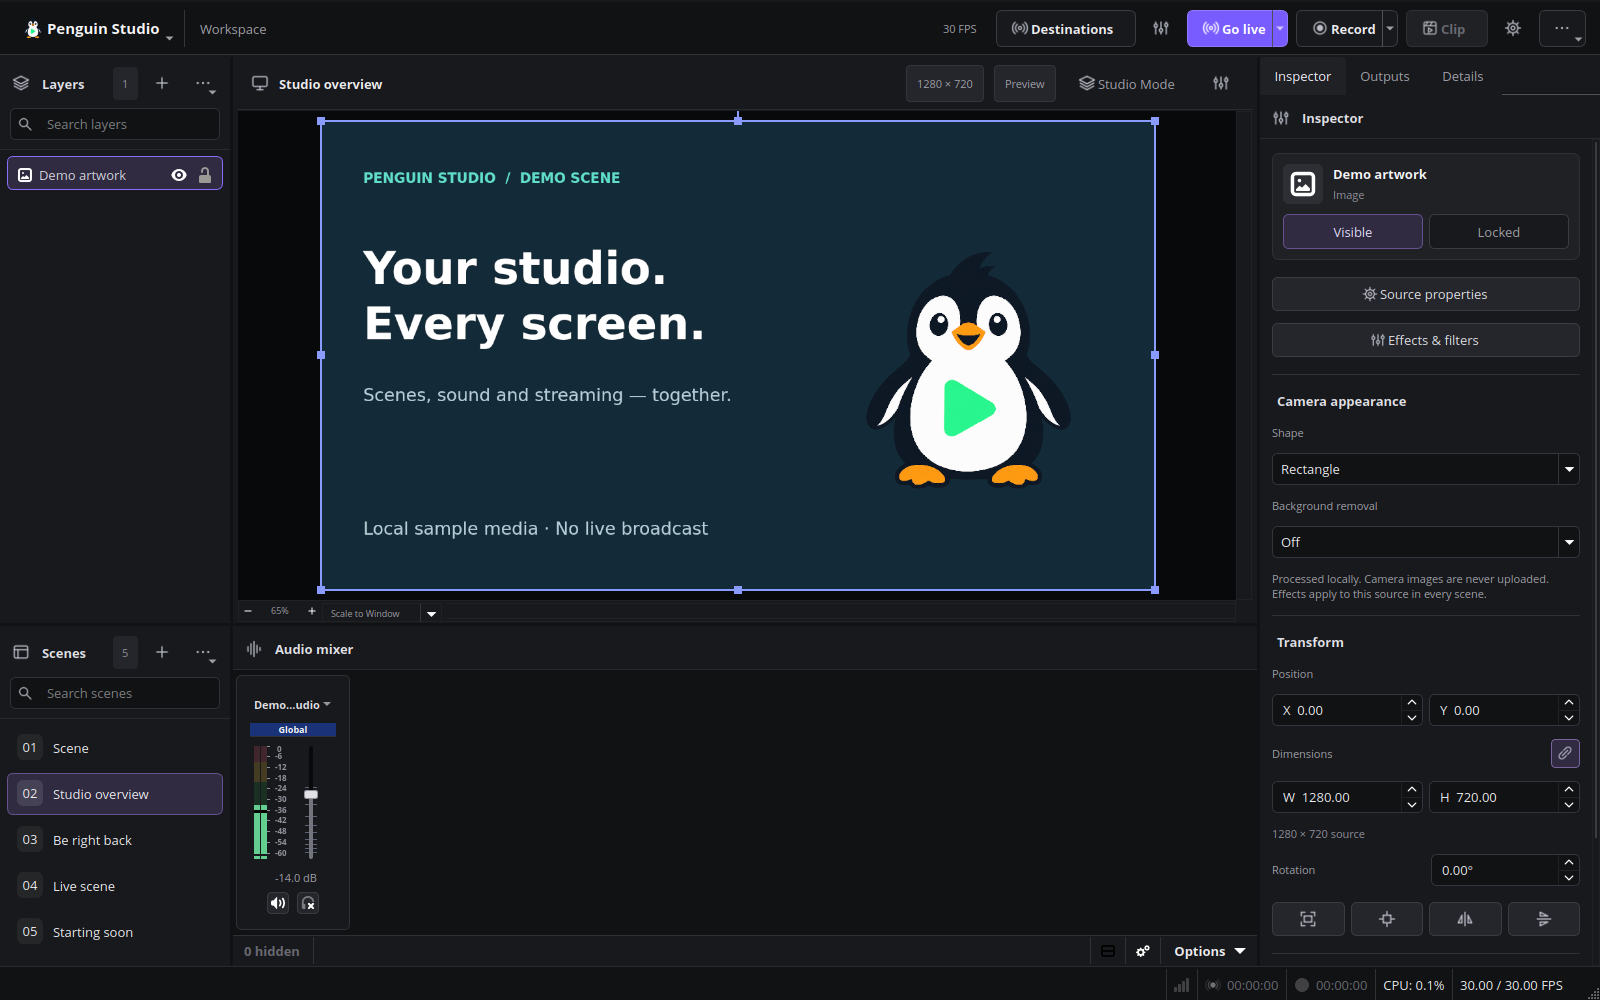
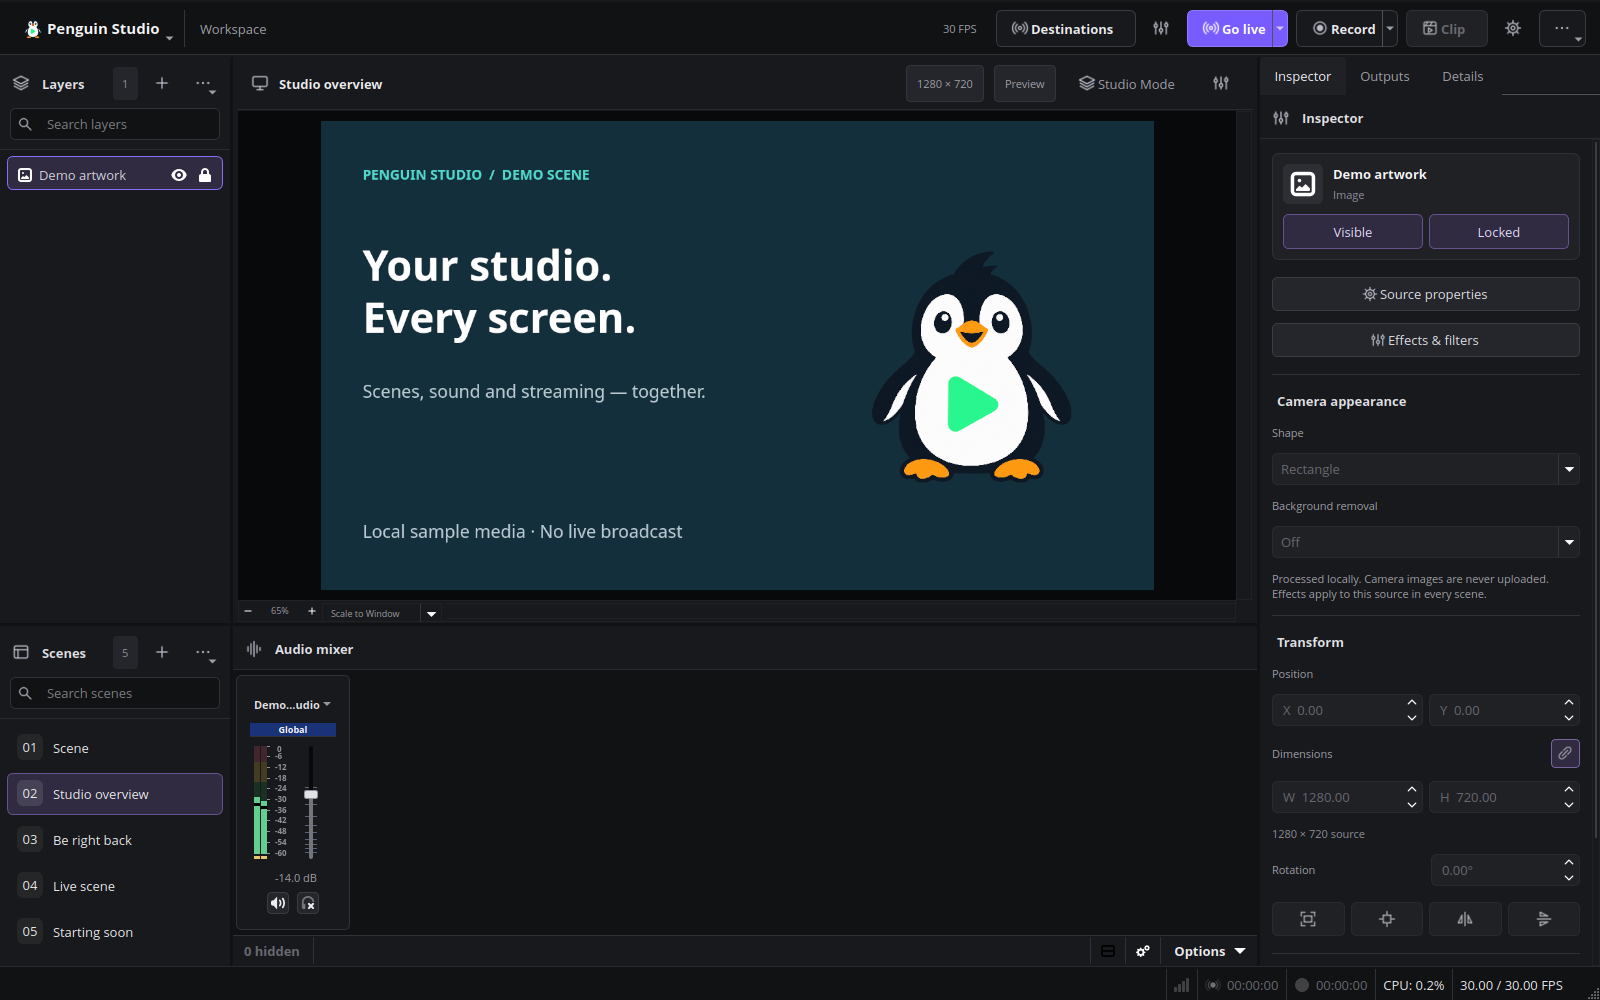
Document candidate regression results and refresh English previews

diff --git a/test/security/packet-parsers.c b/test/security/packet-parsers.c
@@ -80,6 +80,14 @@ int main(void)
 	assert(!obs_av1_keyframe(invalid, sizeof(invalid)));
 	uint8_t *out, *header;
 	size_t out_size, header_size;
+	metadata_obu(NULL, SIZE_MAX, &out, &out_size, METADATA_TYPE_ITUT_T35);
+	assert(!out && !out_size);
+	const uint8_t metadata_payload[] = {'a', 'b', 'c'};
+	metadata_obu(metadata_payload, sizeof(metadata_payload), &out, &out_size, METADATA_TYPE_ITUT_T35);
+	assert(out_size == 7 && out[0] == 0x2a && out[1] == 5 && out[6] == 0x80);
+	bfree(out);
+	const uint8_t oversized[] = {0x32, 0x80, 0x80, 0x80, 0x80, 0x10, 0};
+	assert(!obs_av1_keyframe(oversized, sizeof(oversized)));
 	const uint8_t sequence[] = {0x0a, 1, 0x42, 0x32, 1, 0};
 	obs_extract_av1_headers(sequence, sizeof(sequence), &out, &out_size, &header, &header_size);
 	assert(out_size == sizeof(sequence) && !memcmp(out, sequence, out_size));

diff --git a/docs/validation/core-security-0.6.3.md b/docs/validation/core-security-0.6.3.md
@@ -1,6 +1,7 @@
 # Core security and reliability maintenance — 0.6.3
 
-Status: candidate; package and native Wayland validation pending.
+Status: candidate; all Linux package builds passed. Real YouTube consent and
+Facecam movement validation remain pending before publication and installation.
 
 ## Scope
 
@@ -65,3 +66,56 @@ Reproduction commands: `bash test/security/run-packet-parsers.sh` and
 headers/libraries and SIMDe headers. `PENGUIN_SECURITY_CPPFLAGS` can supply a
 non-system header location. Sanitizer results are not a substitute for codec,
 recording, platform-authentication or hardware regression tests.
+
+## Preliminary package regression checks
+
+The Ubuntu 26.04 candidate built from `53504d2` passed the following native
+Wayland checks. This candidate predates the final ALSA startup and private-scene
+canvas corrections; the final package must repeat these checks before release.
+
+- All 211 workspace checks passed. The short synthetic H.264/AAC recording
+  decoded completely and included the real CEF browser source. No rendering-lag
+  or encoding-skip counters were reported in this run.
+- Synthetic camera checks passed for shapes, chroma key, automatic removal,
+  blur, image replacement, hand preservation, undo and missing-image handling.
+- All nine shutdown scenarios passed without reported startup/shutdown errors,
+  Qt focus warnings or OBS allocation leaks.
+- Local RTMP integration passed horizontal and vertical outputs, reconnection,
+  restart, active-output destruction and failed-connection cleanup.
+- Twitch restored its saved session and returned Minecraft category results.
+  Real YouTube consent and persistence remain pending; simulated provider-flow
+  tests alone do not establish successful real-account authorization.
+
+The workspace exercise still emitted the baseline external RADV Vulkan notice
+and the private-scene canvas warning addressed in the subsequent candidate.
+The ordinary camera and shutdown scenarios did not emit those warnings.
+Browser launch during an isolated account test initially failed because Brave
+inherited the test mount namespace. The test now hands the official Google URL
+to the normal host browser without disabling browser sandboxing.
+
+## Final source candidate checks in progress
+
+The Ubuntu 26.04 package from `474dc4ca1b6f27e1b908092d399115ad4f41561c`
+passed its SHA-256 verification and all synthetic camera-effects checks.
+All 211 workspace checks passed; the recorded browser-source composition was
+visually inspected and the complete recording decoded without errors. The
+private-scene canvas warning is absent. OBS reported zero allocation leaks.
+
+This run reported two rendering-lag frames (1.5%) during the short recording;
+the installed 0.6.2 baseline reported eight (5.9%). This is not a controlled
+performance benchmark and does not establish a universally loss-free result.
+The external RADV Vulkan notice remains visible during the workspace exercise.
+A real Facecam movement recording and final real-account YouTube verification
+remain required before completing the requested release validation.
+
+All seven Linux package jobs in GitHub Actions run `40183842831` succeeded:
+Ubuntu 24.04 and 26.04 DEBs, Fedora 44 RPM, Flatpak, Snap core24, AppImage and
+Arch binary package validation. Publication was correctly skipped for the PR.
+
+The final source candidate also passed all nine native Wayland startup/shutdown
+scenarios and the complete local horizontal/vertical RTMP integration. Twitch
+restored its saved session and returned Minecraft search results. The manual
+in-app updater reached GitHub and correctly reported no newer published release
+(the public version is still 0.6.2); a real installation upgrade is still pending.
+All three current English previews were captured from this package, visually
+reviewed, and checked with `python3 scripts/check-publication.py`.

diff --git a/docs/PACKAGING.md b/docs/PACKAGING.md
@@ -40,7 +40,7 @@ Snap, AppImage and an Arch recipe archive, plus `SHA256SUMS` and
 Releases are marked as prereleases while Penguin Studio remains a development preview.
 
 To publish a new version, increase **`packaging/version.txt`** (for example from
-`0.6.3` to `0.6.3`) and push it to `main`. This single file supplies the application,
+`0.6.3` to `0.6.4`) and push it to `main`. This single file supplies the application,
 native package and Snap versions; the Flatpak filename uses the same value.
 Refresh the English product text and real candidate-version screenshots together
 with the version change; the [publication check](PUBLICATION.md) rejects stale previews.
@@ -63,9 +63,8 @@ Download the Ubuntu 26.04 DEB from [Penguin Studio releases](https://github.com/
 Ubuntu 26.04.1 uses the same package. Do not install the Ubuntu 24.04 DEB on
 26.04 or mix distribution repositories to satisfy its dependencies.
 
-The installed Ubuntu 26.04 package passed the full Wayland camera and alpha-spill
-tests, plus a real Facecam restart with the saved custom image and clean shutdown. See
-[0.6.3 validation](validation/camera-background-edges-0.6.3.md) for scope.
+See [0.6.3 validation](validation/core-security-0.6.3.md) for the package-specific
+Wayland, recording, camera, platform-sign-in and shutdown results and their limits.
 Earlier installed results remain in the [verification history](VERIFICATION.md).
 
 The download is `penguin-studio_0.6.3-1+ubuntu26.04_amd64.deb`.

diff --git a/docs/releases/0.6.3.md b/docs/releases/0.6.3.md
@@ -4,7 +4,7 @@ Penguin Studio 0.6.3 hardens media and RTMP packet parsing, bounds nested AMF de
 
 ### Validation
 
-Candidate validation is in progress. Publication requires successful package builds, reviewed English GUI previews and final Wayland regression tests. No claim of complete security or universally zero dropped frames is made.
+All Linux package builds passed. The Ubuntu candidate passed 211 workspace checks, synthetic camera effects, nine shutdown scenarios, local horizontal/vertical RTMP tests, Twitch session restoration and the GitHub update check. Current English GUI previews have been captured and reviewed. Real YouTube authorization and Facecam movement validation are still pending; this version is not yet published. No claim of complete security or universally zero dropped frames is made.
 
 ### Linux downloads
 
